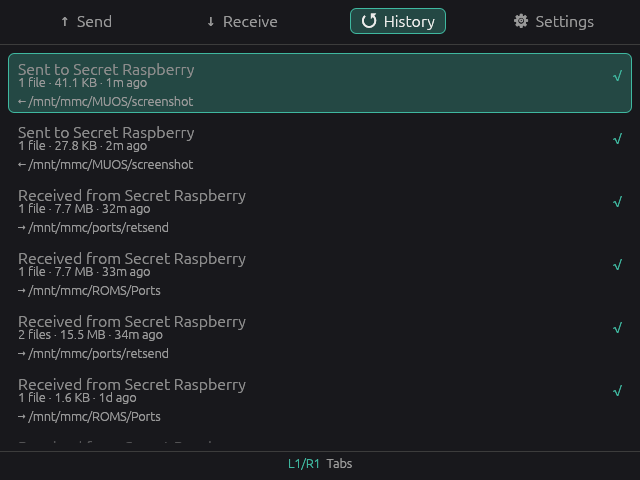
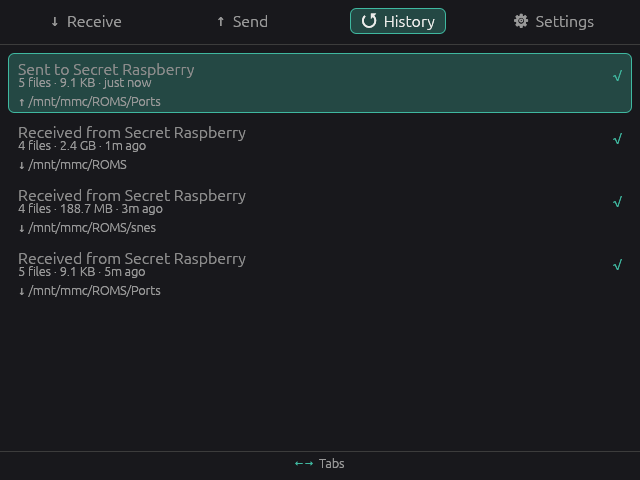
docs: refresh the screenshots and add the request and transfer screens

diff --git a/README.md b/README.md
@@ -17,9 +17,13 @@ or PC over Wi-Fi, no cable or SSH. Compatible with the official LocalSend apps.
 
 It targets PortMaster-compatible Linux handhelds (Knulli, muOS, ROCKNIX, and ArkOS) and the Miyoo Mini Plus and Miyoo Mini Flip running OnionOS, both of which are gamepad-only systems without a compositor, and runs on regular desktop Linux too.
 
-| Receive | Send | Save | History |
-|:---:|:---:|:---:|:---:|
-| ![Waiting for a sender, showing the device alias, address and Wi-Fi network](resources/retsend_receive.png) | ![Radar of four discovered devices, with the on-screen keyboard open to add one by IP](resources/retsend_send.png) | ![Picking the folder an incoming transfer lands in, the request still counting down](resources/retsend_save.png) | ![Sent and received transfers with file counts, sizes, times and the folders they used](resources/retsend_history.png) |
+| Receive | Request | Save |
+|:---:|:---:|:---:|
+| ![Waiting for a sender, showing the device name, address, Wi-Fi network and the folder files land in](resources/retsend_receive.png) | ![An incoming request naming the sender, its files and where they land, counting down to the automatic decline](resources/retsend_request.png) | ![Picking the folder an incoming transfer lands in, the request still counting down](resources/retsend_save.png) |
+
+| Send | Transfer | History |
+|:---:|:---:|:---:|
+| ![Radar of a discovered device with its model and address](resources/retsend_send.png) | ![A transfer in progress: overall bar with bytes, speed and ETA, and a percentage per file](resources/retsend_transfer.png) | ![Sent and received transfers with file counts, sizes, times and the folders they used](resources/retsend_history.png) |
 
 ## Why?
 
